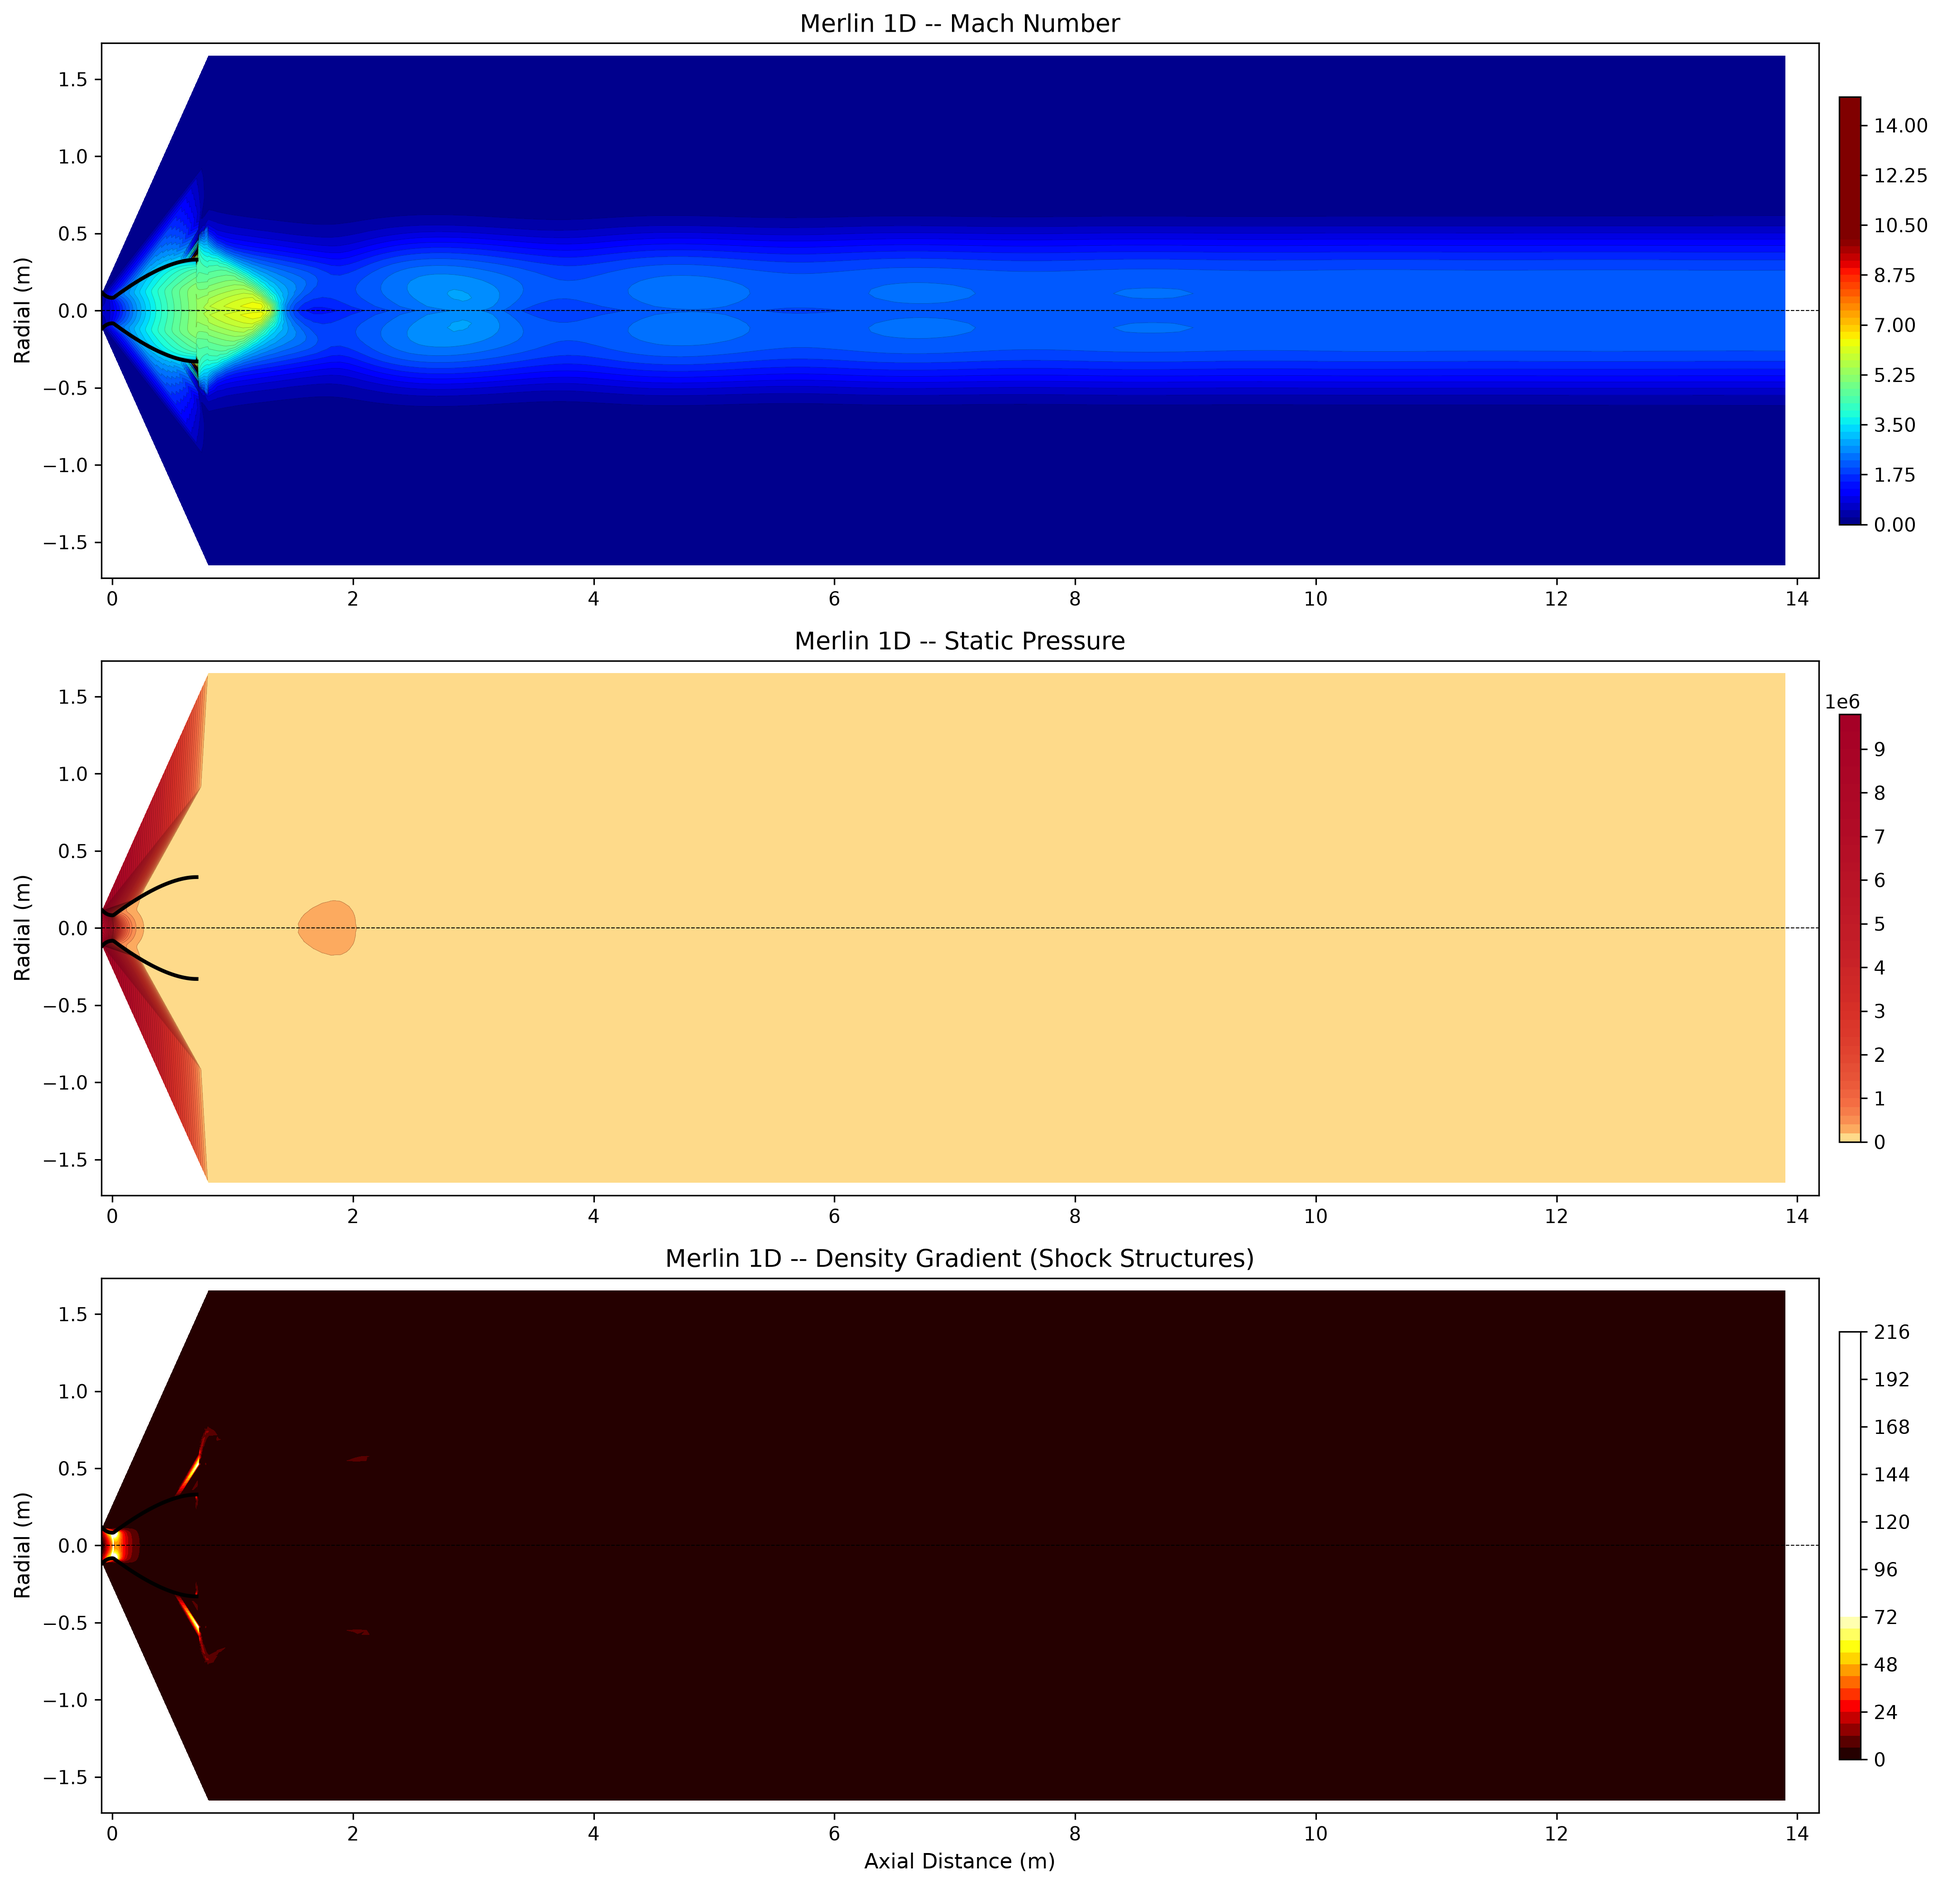
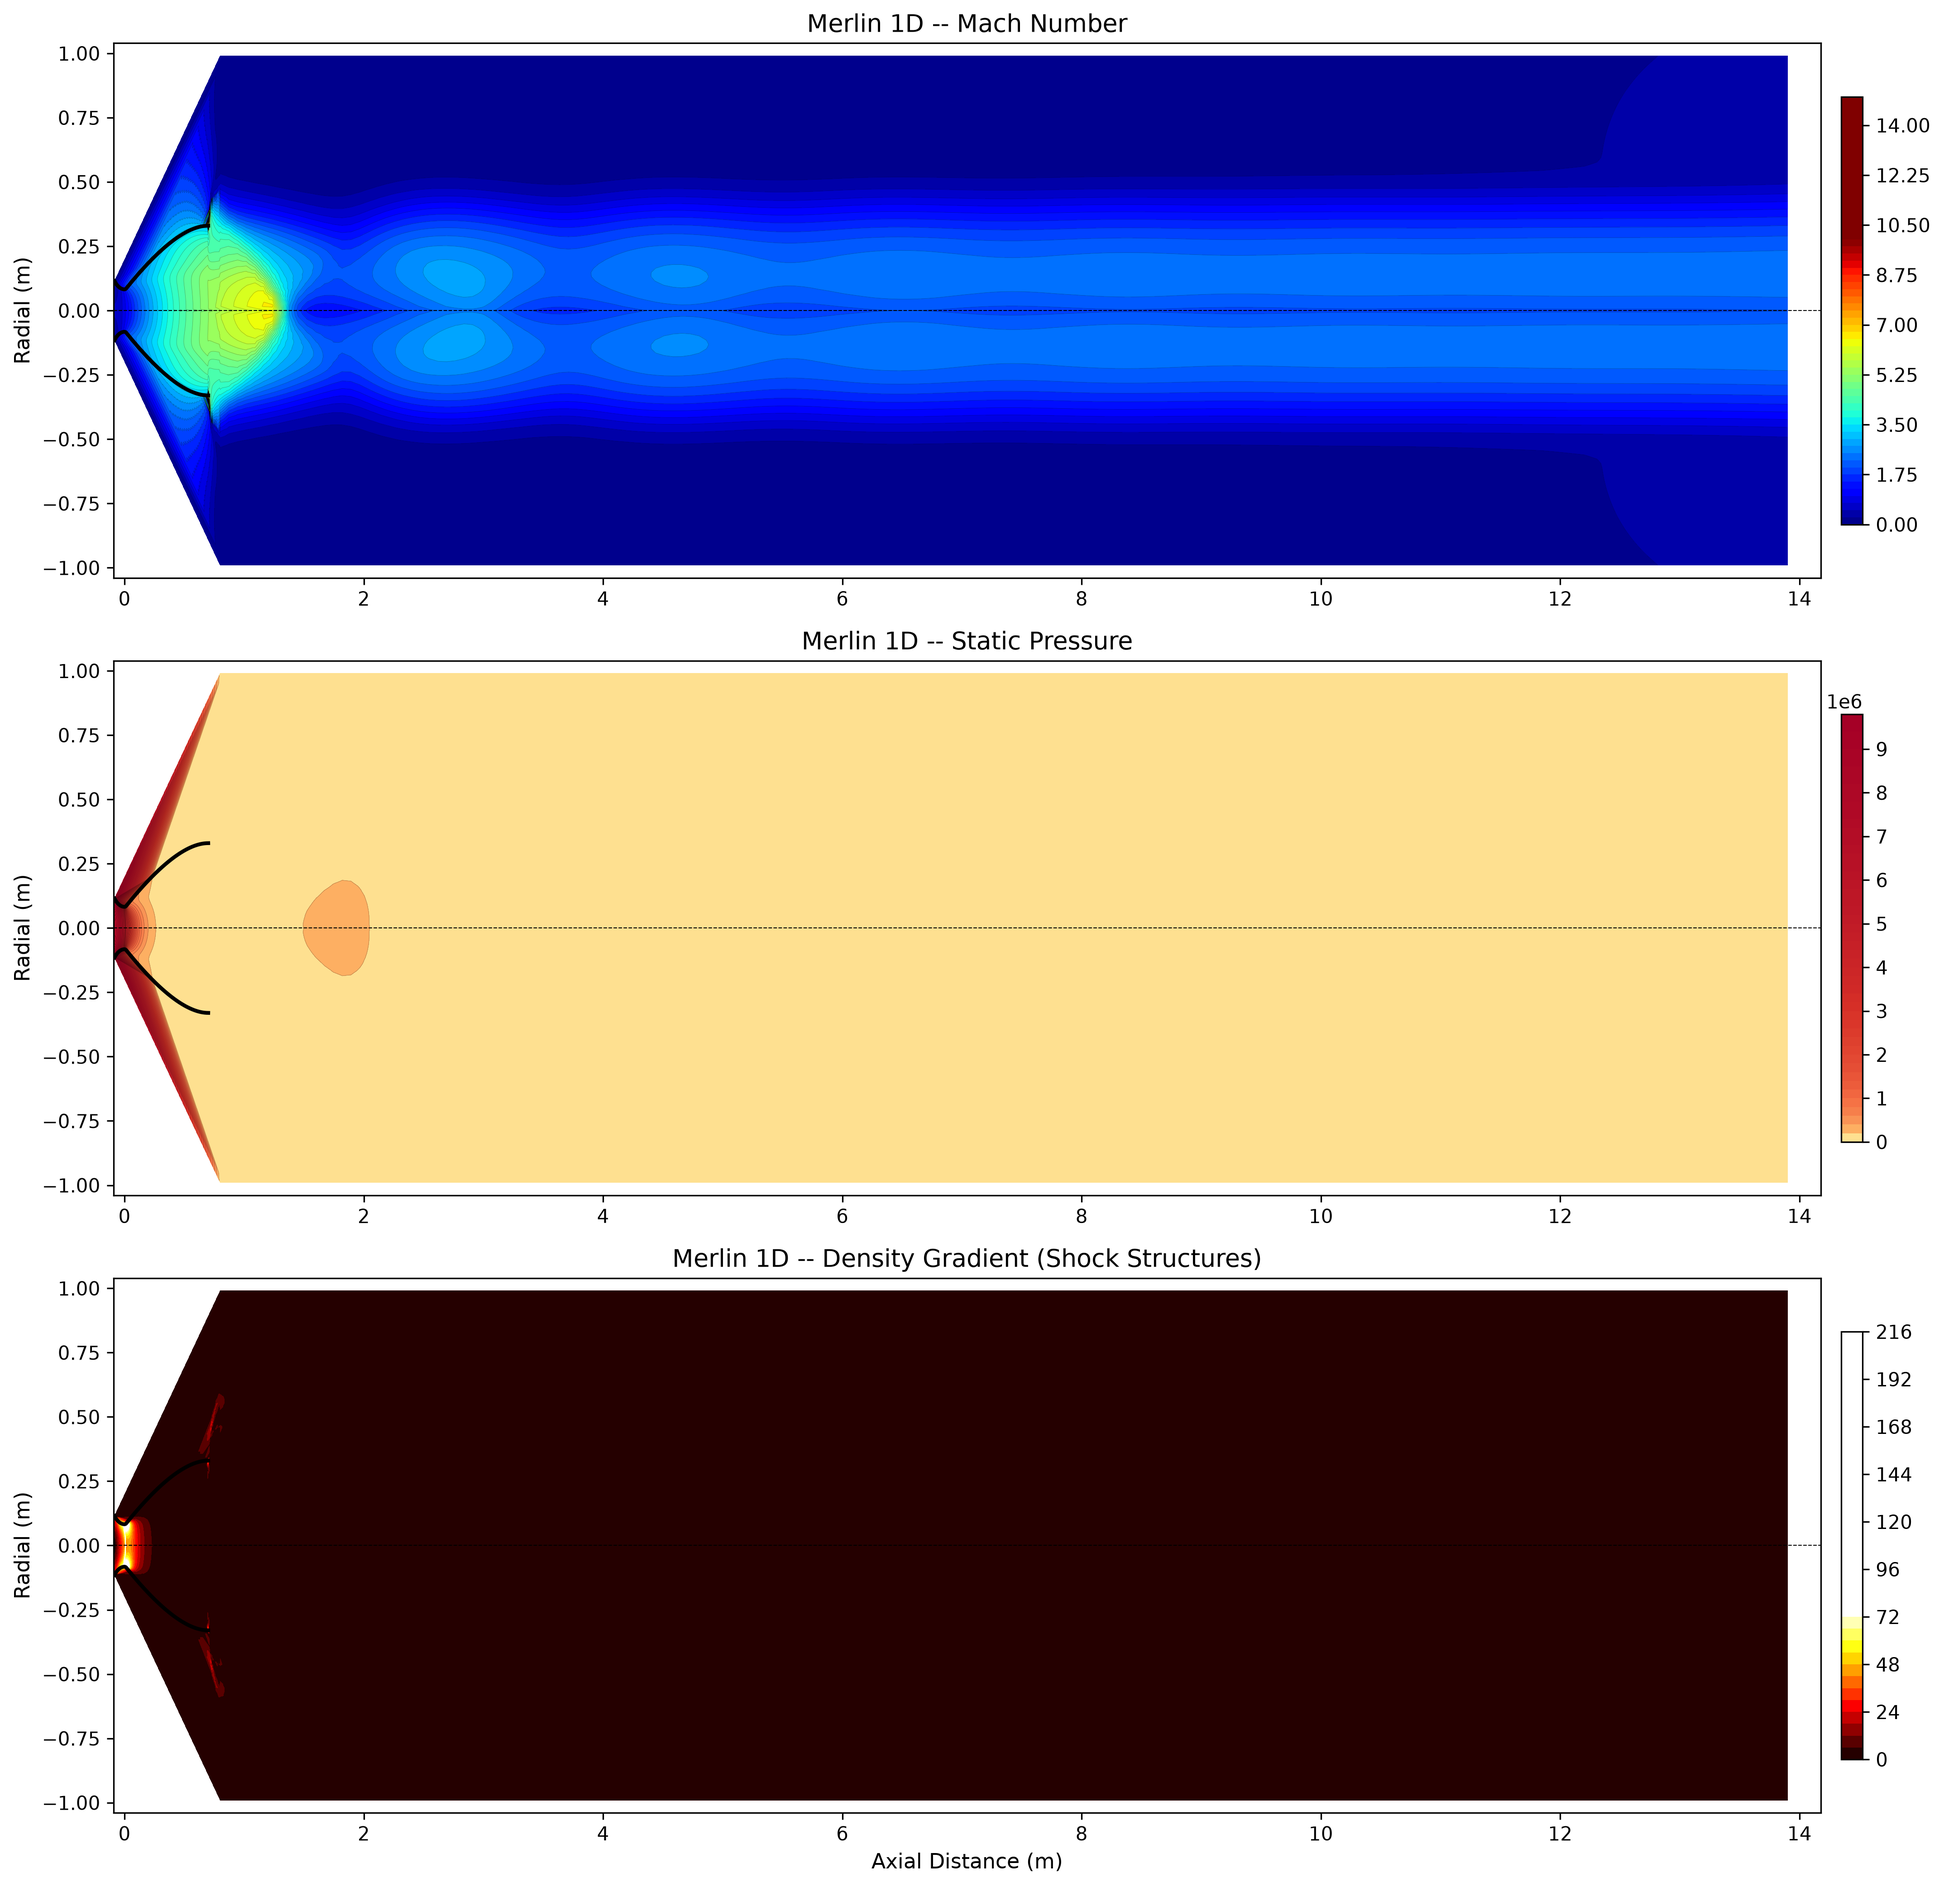
feat(plume): narrow plume width + full symmetric VTU for ParaView
- Reduced plume_radius_ratio from 5.0 to 3.0 (0.99m width)
- Simulation improved: 1.79% error (from 3.47%)
- New script: scripts/mirror_vtu.py mirrors axisymmetric VTU to full view
- Usage: python scripts/mirror_vtu.py flow.vtu flow_full.vtu
- Updated matplotlib plots with narrower domain

diff --git a/scripts/mirror_vtu.py b/scripts/mirror_vtu.py
@@ -1,0 +1,201 @@
+"""Mirror axisymmetric VTU data to create full symmetric plume for ParaView.
+
+SU2's AXISYMMETRIC=YES only computes y >= 0. This script mirrors the data
+across y=0 to create a complete VTU showing both halves of the plume,
+revealing the full diamond shock structure.
+
+Usage:
+    python mirror_vtu.py output/merlin-1d/plume/flow.vtu output/merlin-1d/plume/flow_full.vtu
+"""
+import sys
+import numpy as np
+from pathlib import Path
+
+
+def read_vtu_header(filepath: Path) -> dict:
+    """Read VTU XML header to find data offsets."""
+    import xml.etree.ElementTree as ET
+    tree = ET.parse(filepath)
+    root = tree.getroot()
+    return root
+
+
+def mirror_vtu(input_path: Path, output_path: Path) -> None:
+    """Mirror VTU data across y=0 to create full symmetric field.
+
+    Reads the axisymmetric VTU (y >= 0 only), duplicates all points
+    with negated y coordinates, and writes a new VTU with both halves.
+
+    Args:
+        input_path: Path to axisymmetric flow.vtu
+        output_path: Path to write mirrored full.vtu
+    """
+    try:
+        # Try reading with VTK if available
+        import vtk
+        from vtk.util.numpy_support import vtk_to_numpy, numpy_to_vtk
+
+        reader = vtk.vtkXMLGenericDataObjectReader()
+        reader.SetFileName(str(input_path))
+        reader.Update()
+
+        data = reader.GetOutput()
+        if data is None:
+            raise ValueError(f"Could not read {input_path}")
+
+        # Get original points and data
+        points = vtk_to_numpy(data.GetPoints().GetData())
+        n_original = len(points)
+
+        # Mirror points: negate y coordinate
+        mirrored_points = points.copy()
+        mirrored_points[:, 1] = -mirrored_points[:, 1]
+
+        # Combine original + mirrored
+        full_points = np.vstack([points, mirrored_points])
+
+        # Create new vtkPoints
+        new_points = vtk.vtkPoints()
+        new_points.SetData(numpy_to_vtk(full_points))
+
+        # Create new polydata
+        new_data = vtk.vtkPolyData()
+        new_data.SetPoints(new_points)
+
+        # Mirror all point data arrays
+        for i in range(data.GetPointData().GetNumberOfArrays()):
+            array = data.GetPointData().GetArray(i)
+            name = array.GetName()
+            numpy_array = vtk_to_numpy(array)
+
+            # Duplicate array: original + mirrored
+            full_array = np.vstack([numpy_array, numpy_array]) if numpy_array.ndim > 1 else np.concatenate([numpy_array, numpy_array])
+
+            vtk_array = numpy_to_vtk(full_array)
+            vtk_array.SetName(name)
+            new_data.GetPointData().AddArray(vtk_array)
+
+        # Copy field data if present
+        if data.GetFieldData():
+            for i in range(data.GetFieldData().GetNumberOfArrays()):
+                array = data.GetFieldData().GetArray(i)
+                new_data.GetFieldData().AddArray(array)
+
+        # Write
+        writer = vtk.vtkXMLPolyDataWriter()
+        writer.SetFileName(str(output_path))
+        writer.SetInputData(new_data)
+        writer.Write()
+
+        print(f"Mirrored VTU: {input_path} -> {output_path}")
+        print(f"  Original: {n_original} points")
+        print(f"  Full: {len(full_points)} points")
+
+    except ImportError:
+        # Fallback: manual binary VTU read/write
+        print("VTK not available, using manual VTU parsing...")
+        mirror_vtu_manual(input_path, output_path)
+
+
+def mirror_vtu_manual(input_path: Path, output_path: Path) -> None:
+    """Manual VTU mirroring without VTK dependency.
+
+    Reads the SU2 VTU output, mirrors coordinates and data arrays.
+    """
+    sys.path.insert(0, str(Path(__file__).parent))
+    from cfd.vtu_parser import parse_vtu
+
+    data = parse_vtu(input_path)
+    coords = data.coordinates
+    n_original = len(coords)
+
+    # Mirror coordinates
+    coords_mirror = coords.copy()
+    coords_mirror[:, 1] = -coords[:, 1]
+    coords_full = np.vstack([coords, coords_mirror])
+
+    # Build arrays dict
+    arrays = {}
+    if data.mach is not None:
+        arrays['Mach'] = np.concatenate([data.mach, data.mach])
+    if data.pressure is not None:
+        arrays['Pressure'] = np.concatenate([data.pressure, data.pressure])
+    if data.density is not None:
+        arrays['Density'] = np.concatenate([data.density, data.density])
+    if data.temperature is not None:
+        arrays['Temperature'] = np.concatenate([data.temperature, data.temperature])
+    if data.velocity_x is not None:
+        arrays['Velocity_x'] = np.concatenate([data.velocity_x, data.velocity_x])
+    if data.velocity_y is not None:
+        # Mirror vy: negate for mirrored half
+        arrays['Velocity_y'] = np.concatenate([data.velocity_y, -data.velocity_y])
+
+    # Write as ASCII VTU (simpler, works with ParaView)
+    _write_vtu_ascii(output_path, coords_full, arrays)
+    print(f"Mirrored VTU (manual): {input_path} -> {output_path}")
+    print(f"  Original: {n_original} points")
+    print(f"  Full: {len(coords_full)} points")
+
+
+def _write_vtu_ascii(filepath: Path, coords: np.ndarray, arrays: dict) -> None:
+    """Write VTU file in ASCII XML format."""
+    n_points = len(coords)
+
+    lines = [
+        '<?xml version="1.0"?>',
+        '<VTKFile type="PolyData" version="0.1" byte_order="LittleEndian">',
+        '  <PolyData>',
+        f'    <Piece NumberOfPoints="{n_points}" NumberOfCells="0">',
+        '      <Points>',
+        '        <DataArray type="Float64" NumberOfComponents="3" format="ascii">',
+    ]
+
+    # Write coordinates (z=0 for 2D)
+    for i in range(n_points):
+        lines.append(f'          {coords[i,0]:.10e} {coords[i,1]:.10e} 0.0')
+
+    lines.append('        </DataArray>')
+    lines.append('      </Points>')
+    lines.append('      <PointData>')
+
+    # Write data arrays
+    for name, values in arrays.items():
+        if values.ndim == 1:
+            lines.append(f'        <DataArray type="Float64" Name="{name}" format="ascii">')
+            for v in values:
+                lines.append(f'          {v:.10e}')
+        else:
+            nc = values.shape[1]
+            lines.append(f'        <DataArray type="Float64" Name="{name}" NumberOfComponents="{nc}" format="ascii">')
+            for v in values:
+                line = ' '.join(f'{vi:.10e}' for vi in v)
+                lines.append(f'          {line}')
+        lines.append('        </DataArray>')
+
+    lines.append('      </PointData>')
+    lines.append('      <Cells>')
+    lines.append('        <DataArray type="Int32" Name="connectivity" format="ascii"/>')
+    lines.append('        <DataArray type="Int32" Name="offsets" format="ascii"/>')
+    lines.append('        <DataArray type="UInt8" Name="types" format="ascii"/>')
+    lines.append('      </Cells>')
+    lines.append('    </Piece>')
+    lines.append('  </PolyData>')
+    lines.append('</VTKFile>')
+
+    filepath.parent.mkdir(parents=True, exist_ok=True)
+    filepath.write_text('\n'.join(lines))
+
+
+if __name__ == "__main__":
+    if len(sys.argv) < 3:
+        print("Usage: python mirror_vtu.py <input.vtu> <output.vtu>")
+        sys.exit(1)
+
+    input_path = Path(sys.argv[1])
+    output_path = Path(sys.argv[2])
+
+    if not input_path.exists():
+        print(f"Error: {input_path} not found")
+        sys.exit(1)
+
+    mirror_vtu(input_path, output_path)

diff --git a/run_merlin.py b/run_merlin.py
@@ -35,7 +35,7 @@ CONFIG = EngineConfig(
     plume_cfl=0.05,
     plume_iterations=10000,
     plume_length_ratio=160.0,   # 13.2m / 0.0825m throat_radius
-    plume_radius_ratio=5.0,     # 5x exit radius
+    plume_radius_ratio=3.0,     # 3x exit radius (0.99m, narrower for better resolution)
     sweep_expansion_ratios=(8.0, 12.0, 16.0, 20.0, 24.0),
     sweep_chamber_pressures=(5e6, 9.7e6, 15e6, 20e6),
     sweep_throat_radii=(0.05, 0.0825, 0.1, 0.15),
